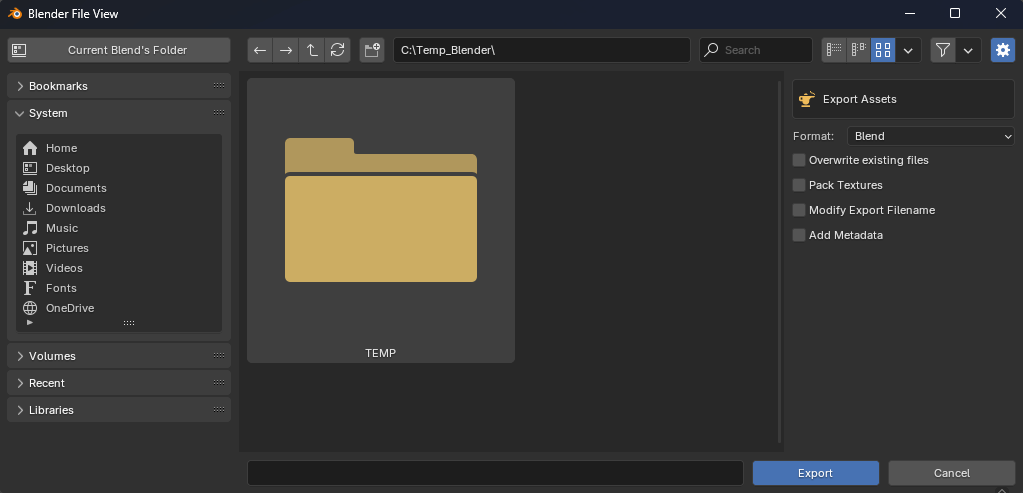
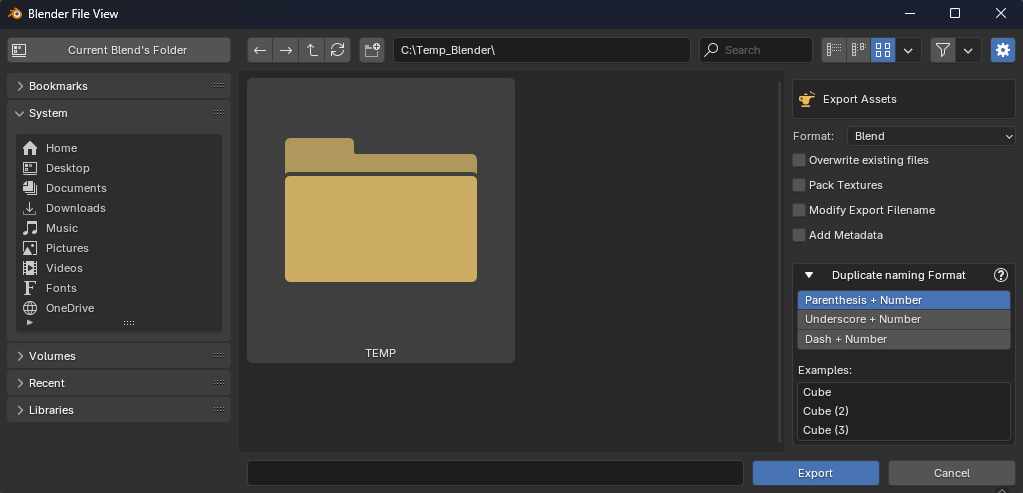
1.1.1

Changed region(s): [[0.7576, 0.5477, 1.0, 0.7606], [0.7879, 0.7911, 0.8485, 0.8824]]

diff --git a/docs/changelog.md b/docs/changelog.md
@@ -11,12 +11,24 @@ Here, you can find a list of all updates, enhancements, and bug fixes made to Ba
 
 <div class="changelog" markdown>
 
+
+#### 1.1.1
+
+  > Date: 2024.10.13
+
+- **Improved functionality**:
+    - `Exporting `: When exporting via the Asset Browser, you can now add a suffix to handle duplicate asset names. For instance, if you're exporting two assets both named "Cube," you can choose how they are renamed, such as "Cube.blend" and "Cube (2).blend".
+- **Bugfix**:
+    - `Exporting`: Fixed an issue where exporting local Assets from your current file via the Asset Browser, while not in the 'Current File' library, resulted in empty .blend files. This has now been resolved.
+
+---
+
 #### 1.1.0
 
   > Date: 2024.10.12
 
 - **Bugfix**:
-    - `Rendering`: Fixed an issue where rendering for certain collections would complete, but the cleanup of temporary files failed due to specific material node-groups. As a result, BatchGenie was unable to set the newly rendered image as the asset thumbnail. This has now been resolved.
+    - `Rendering`: Fixed an issue where rendering for certain collections would complete, but the cleanup of temporary files failed due to specific material node-groups. As a result, BatchGenie was unable to set the newly rendered image as the Asset thumbnail. This has now been resolved.
 - **UI**:
     - `Exporting`: A progress bar is now displayed when exporting, with plans to implement it in other areas soon.
 
@@ -41,7 +53,7 @@ Here, you can find a list of all updates, enhancements, and bug fixes made to Ba
 
 - **New functionality**:
     - `Exporting`: Now integrated into the Asset Browser. More settings added; customize the export name & pack texture option. [More info](export.md)
-    - New utility `Pack Textures`: Inside the Asset Browser, you can now select assets and pack the textures for these assets, ensuring that your assets maintain their appearance without relying on external texture files. [More info](utilities.md#pack-textures)
+    - New utility `Pack Textures`: Inside the Asset Browser, you can now select Assets and pack the textures for these Assets, ensuring that your Assets maintain their appearance without relying on external texture files. [More info](utilities.md#pack-textures)
 - **Bugfix**:
     - `Exporting`: The `Keep Outliner Hierarchy` setting now correctly exports objects that are directly in the root Scene Collection.
     - Utility `Load previews from disk`: Sometimes when selecting the folder, the current blend file was selected in the file browser, causing the selected file path to include the .blend file, which resulted in no previews being found. This has now been resolved.
@@ -64,7 +76,7 @@ Here, you can find a list of all updates, enhancements, and bug fixes made to Ba
   > Date: 2024.10.04
 
 - **New functionality**:
-    - New `Export objects`: Basic exporting functionality added. In the near future, the export functionality will be expanded and will also be available in the Asset Browser for easy exporting of your assets in various formats. [More info](export.md)
+    - New `Export objects`: Basic exporting functionality added. In the near future, the export functionality will be expanded and will also be available in the Asset Browser for easy exporting of your Assets in various formats. [More info](export.md)
 - **Improved functionality**:
     - Utilities: Enhanced parallel processing speed. When working with external blend files, BatchGenie utilizes multiple Blender processes in the background for quicker performance. Now with even greater speed, achieving up to a 0.5-second improvement per external blend file opened.
 - **Bugfix**:
@@ -110,7 +122,7 @@ Here, you can find a list of all updates, enhancements, and bug fixes made to Ba
 
 - **New functionality**:
     - Utility `Add Asset Tag`: New Smart Tag: 'Material Type'. Tags the material with its type: "Texture-based" or "Procedural", with an option to include node counts for both types. Example: "Procedural (56 nodes)". [More info](utilities.md)
-    - `Render Asset Previews`:  'Add Incremental Filename Suffix' option: When saving asset previews externally, this feature automatically appends an incrementing number to the end of filenames, ensuring each version is saved without overwriting previous files. This allows you to quickly iterate renders with various settings. For example, if your object is named "Suzanne", rendered images will be saved as "Suzanne[1].png", "Suzanne[2].png", etc. [More info](render_asset_previews.md#render-settings)
+    - `Render Asset Previews`:  'Add Incremental Filename Suffix' option: When saving Asset previews externally, this feature automatically appends an incrementing number to the end of filenames, ensuring each version is saved without overwriting previous files. This allows you to quickly iterate renders with various settings. For example, if your object is named "Suzanne", rendered images will be saved as "Suzanne[1].png", "Suzanne[2].png", etc. [More info](render_asset_previews.md#render-settings)
 - **UI**:
     - Improved UI & tooltips for the previously added 'Filtering' functions for some utilities.
     - Improved the layout & content of the 'info' popup that is available in many places.

diff --git a/docs/export.md b/docs/export.md
@@ -60,6 +60,10 @@ BatchGenie streamlines the export of your assets, making it easy to organize you
 
 
 
-If you're exporting via the Asset Browser, you'll see settings similar to those in the main panel, displayed alongside the file browser view where you select the export directory, as shown in the image:
+When exporting via the Asset Browser, you'll be presented with settings similar to those in the main panel, shown alongside the file browser where you select the export directory, as seen in the image below.
+
+An additional option available is:
+
+- **Duplicate naming Format**: Choose how duplicate Asset names are handled during export, allowing you to customize the format in which a number is appended to avoid naming conflicts.
 
 ![Export Panel](images/export_asset_browser_file_view.png){ .img-box width=80% }
